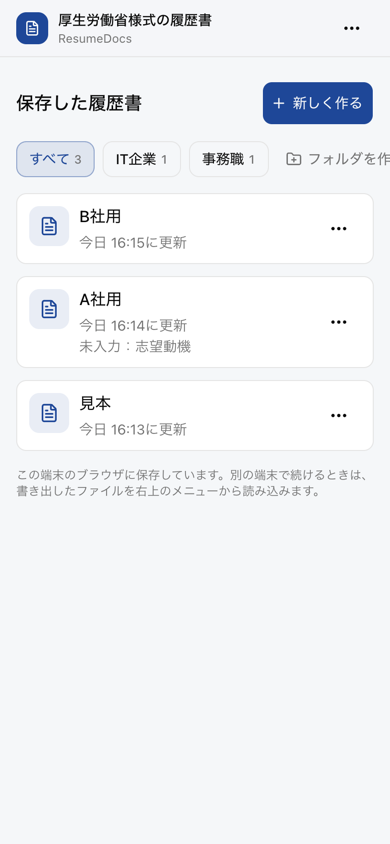
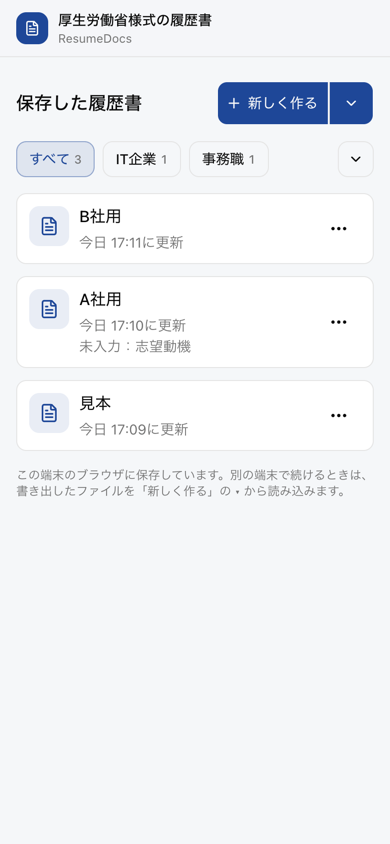
Make one "新しく作る" button for everything that can be created
"新しく作る" is now a split button, as in the editor's PDF button
(shadcn ButtonGroup with a DropdownMenu). The main part still makes a
resume in one tap; its ▾ lists 履歴書, 見本から, フォルダ and
ファイルから読み込む, each with an icon and a short description (shadcn
Item inside the menu items). Inside a folder, the menu says where new
resumes go.

The other entry points go away: the folder chips no longer carry a
create button, the folder list drops its create item, and the
header's menu, which only held import, is removed. An empty list
gets its own link to import an exported file, so starting on a new
device still works.

diff --git a/web/src/components/resume-list.tsx b/web/src/components/resume-list.tsx
@@ -3,7 +3,7 @@
 import { useEffect, useRef, useState, useSyncExternalStore } from "react";
 import Link from "next/link";
 import { useRouter } from "next/navigation";
-import { ChevronDown, Copy, FileText, FolderInput, FolderOpen, FolderPlus, MoreHorizontal, Pencil, Plus, Sparkles, Trash2 } from "lucide-react";
+import { ChevronDown, Copy, FileText, FileUp, FolderInput, FolderOpen, FolderPlus, MoreHorizontal, Pencil, Plus, Sparkles, Trash2 } from "lucide-react";
 import { toast } from "sonner";
 import { cn } from "cn";
 import {
@@ -17,6 +17,7 @@ import {
   AlertDialogTitle,
 } from "@/components/ui/alert-dialog";
 import { Button } from "@/components/ui/button";
+import { ButtonGroup, ButtonGroupSeparator } from "@/components/ui/button-group";
 import {
   DropdownMenu,
   DropdownMenuContent,
@@ -75,6 +76,31 @@ function updatedLabel(time: number) {
   if (d.toDateString() === now.toDateString()) return `今日 ${d.getHours()}:${String(d.getMinutes()).padStart(2, "0")}`;
   const md = `${d.getMonth() + 1}月${d.getDate()}日`;
   return d.getFullYear() === now.getFullYear() ? md : `${d.getFullYear()}年${md}`;
+}
+
+// 「新しく作る」の ▾ に並べるもの
+const MENU = [
+  { icon: FileText, title: "履歴書", text: "空の状態から書く" },
+  { icon: Sparkles, title: "見本から", text: "見本の内容を入れて、書き換えて使う", sample: true },
+  { icon: FolderPlus, title: "フォルダ", text: "応募先の種類などで履歴書を分ける" },
+  { icon: FileUp, title: "ファイルから読み込む", text: "書き出したファイルで続きを書く" },
+];
+
+/** ▾ の中の1行。アイコン・名前・説明を並べる（shadcn の Item をメニューの中で使う形） */
+function CreateItem({ icon: Icon, title, text, onClick }: { icon: typeof FileText; title: string; text: string; onClick: () => void }) {
+  return (
+    <DropdownMenuItem onClick={onClick}>
+      <Item size="xs" className="w-full flex-nowrap">
+        <ItemMedia variant="icon" className="size-8 rounded-md bg-primary/10 text-primary">
+          <Icon className="size-4" />
+        </ItemMedia>
+        <ItemContent className="gap-0">
+          <ItemTitle>{title}</ItemTitle>
+          <ItemDescription className="line-clamp-none">{text}</ItemDescription>
+        </ItemContent>
+      </Item>
+    </DropdownMenuItem>
+  );
 }
 
 // 一覧に「あと何を書けばいいか」を出す項目（資格は無い人もいるので数えない）
@@ -229,17 +255,6 @@ export function ResumeList() {
       <header className="sticky top-0 z-40 border-b bg-background/80 backdrop-blur-md">
         <div className="mx-auto flex h-14 w-full max-w-3xl items-center gap-3 px-4 sm:px-6">
           <Brand />
-          <DropdownMenu>
-            <DropdownMenuTrigger render={<Button variant="ghost" size="icon" className="ml-auto size-11 sm:size-8" aria-label="メニュー" />}>
-              <MoreHorizontal className="size-5 sm:size-4" />
-            </DropdownMenuTrigger>
-            <DropdownMenuContent align="end" className="w-60 sm:w-52">
-              <DropdownMenuItem onClick={() => importInput.current?.click()}>
-                <FolderOpen />
-                ファイルから読み込む
-              </DropdownMenuItem>
-            </DropdownMenuContent>
-          </DropdownMenu>
         </div>
       </header>
 
@@ -247,13 +262,33 @@ export function ResumeList() {
         <div className="flex min-h-11 items-center justify-between gap-3 sm:min-h-9">
           <h1 className="text-lg font-semibold">保存した履歴書</h1>
           {loaded && list.length > 0 && (
-            <Button className="h-11 sm:h-9" onClick={() => create()}>
-              <Plus data-icon="inline-start" />
-              新しく作る
-            </Button>
+            <ButtonGroup>
+              <Button className="h-11 sm:h-9" onClick={() => create()}>
+                <Plus data-icon="inline-start" />
+                新しく作る
+              </Button>
+              <ButtonGroupSeparator />
+              <DropdownMenu>
+                <DropdownMenuTrigger render={<Button size="icon" className="size-11 sm:size-9" aria-label="作るものを選ぶ" />}>
+                  <ChevronDown />
+                </DropdownMenuTrigger>
+                <DropdownMenuContent align="end" className="w-72 sm:w-64">
+                  <DropdownMenuGroup>
+                    {/* フォルダを開いているときは、どこに作られるかを示す */}
+                    {folder && <DropdownMenuLabel className="truncate">「{folder.name}」に作る</DropdownMenuLabel>}
+                    {MENU.slice(0, 2).map((m) => (
+                      <CreateItem key={m.title} {...m} onClick={() => (m.sample ? create(structuredClone(SAMPLE), "見本") : create())} />
+                    ))}
+                  </DropdownMenuGroup>
+                  <DropdownMenuSeparator />
+                  <CreateItem {...MENU[2]} onClick={() => setNaming({ kind: "new" })} />
+                  <CreateItem {...MENU[3]} onClick={() => importInput.current?.click()} />
+                </DropdownMenuContent>
+              </DropdownMenu>
+            </ButtonGroup>
           )}
         </div>
-        {loaded && list.length > 0 && (
+        {loaded && folders.length > 0 && list.length > 0 && (
           <div className="flex items-center gap-2">
             {/* フォルダが増えたら横に流して見る。全部は右の ▾ から一覧で選べる（マウスでは横に流しにくいため） */}
             <div
@@ -261,74 +296,55 @@ export function ResumeList() {
               className={cn(
                 "flex min-w-0 flex-1 items-center gap-2 overflow-x-auto [scrollbar-width:none]",
                 // 流したときも画面の端に付かないよう、端の余白を残して止める
-                folders.length ? "-ml-4 scroll-pl-4 pl-4 sm:-ml-6 sm:scroll-pl-6 sm:pl-6" : "-mx-4 px-4 sm:-mx-6 sm:px-6",
+                "-ml-4 scroll-pl-4 pl-4 sm:-ml-6 sm:scroll-pl-6 sm:pl-6",
               )}
             >
-              {folders.length > 0 && (
-                <ToggleGroup variant="outline" value={[folder?.id ?? ALL]} onValueChange={(v) => v[0] && select(v[0])} aria-label="表示するフォルダ">
-                  {views.map((v) => (
-                    <ToggleGroupItem
-                      key={v.id}
-                      value={v.id}
-                      className="h-9 px-3 sm:h-8 aria-pressed:border-primary/40 aria-pressed:bg-primary/10 aria-pressed:text-primary"
-                    >
-                      {/* 長い名前は省略する（全部は ▾ の一覧で見られる） */}
-                      <span className="max-w-40 truncate">{v.name}</span>
-                      <span className="text-xs text-muted-foreground tabular-nums">{v.count}</span>
-                    </ToggleGroupItem>
-                  ))}
-                </ToggleGroup>
-              )}
-              {folders.length ? (
-                <Button variant="ghost" size="icon" className="size-9 shrink-0 text-muted-foreground sm:size-8" aria-label="フォルダを作る" onClick={() => setNaming({ kind: "new" })}>
-                  <FolderPlus />
-                </Button>
-              ) : (
-                <Button variant="ghost" className="h-9 shrink-0 px-2.5 text-muted-foreground sm:h-8" onClick={() => setNaming({ kind: "new" })}>
-                  <FolderPlus data-icon="inline-start" />
-                  フォルダを作る
-                </Button>
-              )}
+              <ToggleGroup variant="outline" value={[folder?.id ?? ALL]} onValueChange={(v) => v[0] && select(v[0])} aria-label="表示するフォルダ">
+                {views.map((v) => (
+                  <ToggleGroupItem
+                    key={v.id}
+                    value={v.id}
+                    className="h-9 px-3 sm:h-8 aria-pressed:border-primary/40 aria-pressed:bg-primary/10 aria-pressed:text-primary"
+                  >
+                    {/* 長い名前は省略する（全部は ▾ の一覧で見られる） */}
+                    <span className="max-w-40 truncate">{v.name}</span>
+                    <span className="text-xs text-muted-foreground tabular-nums">{v.count}</span>
+                  </ToggleGroupItem>
+                ))}
+              </ToggleGroup>
             </div>
-            {folders.length > 0 && (
-              <DropdownMenu>
-                <DropdownMenuTrigger render={<Button variant="outline" size="icon" className="size-9 shrink-0 sm:size-8" aria-label="フォルダの一覧" />}>
-                  <ChevronDown />
-                </DropdownMenuTrigger>
-                <DropdownMenuContent align="end" className="w-64 sm:w-56">
-                  <DropdownMenuRadioGroup value={folder?.id ?? ALL} onValueChange={select}>
-                    {views.map((v) => (
-                      <DropdownMenuRadioItem key={v.id} value={v.id} closeOnClick>
-                        <span className="min-w-0 flex-1 truncate">{v.name}</span>
-                        <span className="text-xs text-muted-foreground tabular-nums">{v.count}</span>
-                      </DropdownMenuRadioItem>
-                    ))}
-                  </DropdownMenuRadioGroup>
-                  <DropdownMenuSeparator />
-                  <DropdownMenuItem onClick={() => setNaming({ kind: "new" })}>
-                    <FolderPlus />
-                    フォルダを作る
-                  </DropdownMenuItem>
-                  {folder && (
-                    <>
-                      <DropdownMenuSeparator />
-                      {/* 下の2つは、開いているフォルダに対する操作 */}
-                      <DropdownMenuGroup>
-                        <DropdownMenuLabel className="truncate">「{folder.name}」</DropdownMenuLabel>
-                        <DropdownMenuItem onClick={() => setNaming({ kind: "rename", folder })}>
-                          <Pencil />
-                          名前を変える
-                        </DropdownMenuItem>
-                        <DropdownMenuItem variant="destructive" onClick={() => setDeletingFolder(folder)}>
-                          <Trash2 />
-                          削除
-                        </DropdownMenuItem>
-                      </DropdownMenuGroup>
-                    </>
-                  )}
-                </DropdownMenuContent>
-              </DropdownMenu>
-            )}
+            <DropdownMenu>
+              <DropdownMenuTrigger render={<Button variant="outline" size="icon" className="size-9 shrink-0 sm:size-8" aria-label="フォルダの一覧" />}>
+                <ChevronDown />
+              </DropdownMenuTrigger>
+              <DropdownMenuContent align="end" className="w-64 sm:w-56">
+                <DropdownMenuRadioGroup value={folder?.id ?? ALL} onValueChange={select}>
+                  {views.map((v) => (
+                    <DropdownMenuRadioItem key={v.id} value={v.id} closeOnClick>
+                      <span className="min-w-0 flex-1 truncate">{v.name}</span>
+                      <span className="text-xs text-muted-foreground tabular-nums">{v.count}</span>
+                    </DropdownMenuRadioItem>
+                  ))}
+                </DropdownMenuRadioGroup>
+                {folder && (
+                  <>
+                    <DropdownMenuSeparator />
+                    {/* 下の2つは、開いているフォルダに対する操作 */}
+                    <DropdownMenuGroup>
+                      <DropdownMenuLabel className="truncate">「{folder.name}」</DropdownMenuLabel>
+                      <DropdownMenuItem onClick={() => setNaming({ kind: "rename", folder })}>
+                        <Pencil />
+                        名前を変える
+                      </DropdownMenuItem>
+                      <DropdownMenuItem variant="destructive" onClick={() => setDeletingFolder(folder)}>
+                        <Trash2 />
+                        削除
+                      </DropdownMenuItem>
+                    </DropdownMenuGroup>
+                  </>
+                )}
+              </DropdownMenuContent>
+            </DropdownMenu>
           </div>
         )}
         {!loaded ? (
@@ -359,6 +375,10 @@ export function ResumeList() {
                 見本で試す
               </Button>
             </EmptyContent>
+            <Button variant="link" className="h-11 text-muted-foreground sm:h-9" onClick={() => importInput.current?.click()}>
+              <FileUp data-icon="inline-start" />
+              書き出したファイルを読み込む
+            </Button>
           </Empty>
         ) : shown.length === 0 ? (
           <Empty className="flex-none border bg-card">
@@ -388,7 +408,7 @@ export function ResumeList() {
               ))}
             </ItemGroup>
             <p className="text-xs text-muted-foreground">
-              この端末のブラウザに保存しています。別の端末で続けるときは、書き出したファイルを右上のメニューから読み込みます。
+              この端末のブラウザに保存しています。別の端末で続けるときは、書き出したファイルを「新しく作る」の ▾ から読み込みます。
             </p>
           </>
         )}

diff --git a/web/src/app/page.tsx b/web/src/app/page.tsx
@@ -36,7 +36,7 @@ const FEATURES = [
   { icon: FileCheckCorner, title: "公式の様式そのまま", text: "厚生労働省の PDF に書き込むので、様式とずれません。" },
   { icon: ShieldCheck, title: "入力内容は外に出ない", text: "保存先はこのブラウザの中だけ。サーバーには送りません。" },
   { icon: Smartphone, title: "スマホで最後まで", text: "PDF の保存も、LINE やメールでの送信もスマホでできます。" },
-  { icon: Files, title: "応募先ごとに保存", text: "いくつでも保存でき、複製して志望動機だけ書き換えられます。" },
+  { icon: Files, title: "応募先ごとに保存", text: "いくつでも保存でき、フォルダで分けられます。" },
 ];
 
 const STEPS = [

diff --git a/README.md b/README.md
@@ -16,7 +16,7 @@
 
 - 厚生労働省が配布している PDF をそのまま下地にして、記入内容だけを重ねます。罫線も見出しも描き直していないので、様式は公式と変わりません。罫線の位置が公式 PDF と 0.01pt（約0.004mm）以内で一致することは、`check_form.py` で確かめられます
 - 入力からプレビュー、PDF の保存まで、スマホだけでできます。保存すると共有メニューが開くので、そのままファイルに保存したり、LINE やメールで送ったりできます
-- 履歴書はいくつでも保存できます。応募先ごとに複製して、志望動機だけ書き換える使い方を想定しています
+- 履歴書はいくつでも保存でき、フォルダで分けられます。応募先ごとに複製して、志望動機だけ書き換える使い方を想定しています
 - 郵便番号と電話番号にはハイフンが自動で入り（電話番号は国番号も選べます）、メールアドレスは gmail.com などの候補から選べます。学歴・職歴・資格は、年月の順に自動で並びます
 - 長い文章は、欄に収まるまで文字を小さくします。行数が様式を超えたときは知らせるだけで、勝手に切り捨てることはありません
 - サーバーを持たない静的なページなので、入力内容も写真も外には送られません
@@ -30,7 +30,7 @@
 
 知っておいてほしいこと：
 
-- 入力内容は、そのブラウザの中に保存されます。ブラウザのデータを消すと履歴書も消えるので、残しておきたいものは、編集画面のメニューにある「データを書き出す」でファイルに保存してください。保存したファイルは、別の端末でも「保存した履歴書」のメニューから読み込めます
+- 入力内容は、そのブラウザの中に保存されます。ブラウザのデータを消すと履歴書も消えるので、残しておきたいものは、編集画面のメニューにある「データを書き出す」でファイルに保存してください。保存したファイルは、別の端末でも、一覧の「新しく作る」の ▾ にある「ファイルから読み込む」で読み込めます
 - 作れるのは履歴書だけです。職務経歴書は、下の「コマンド版」で作れます
 - 写真は JPEG か PNG を使ってください（Chrome では iPhone の HEIC 形式を読めません）
 - 初回だけ、PDF 用のフォント（約 7.8MB）の読み込みに少し時間がかかります
